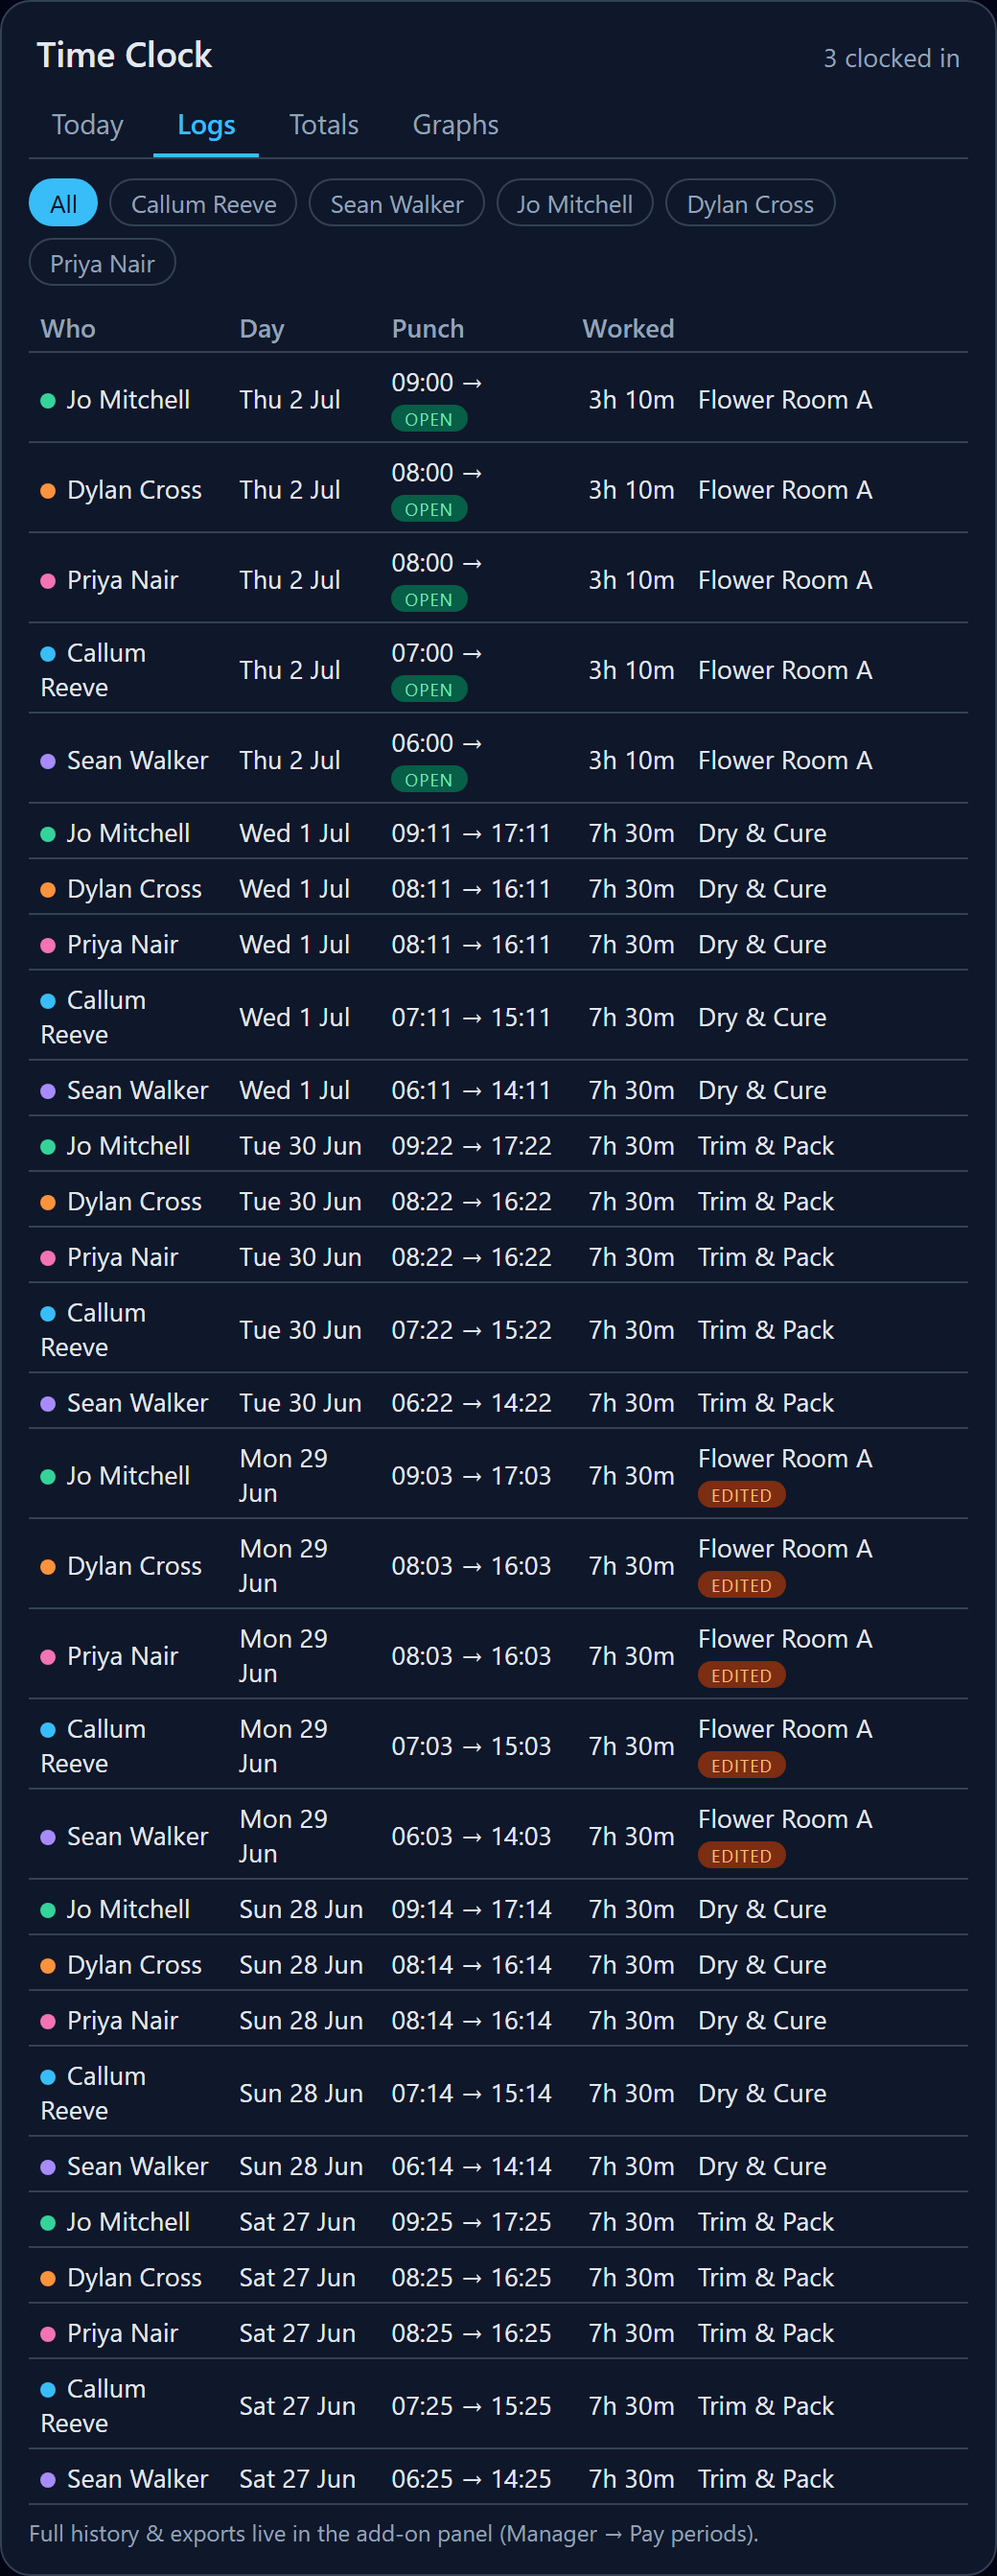
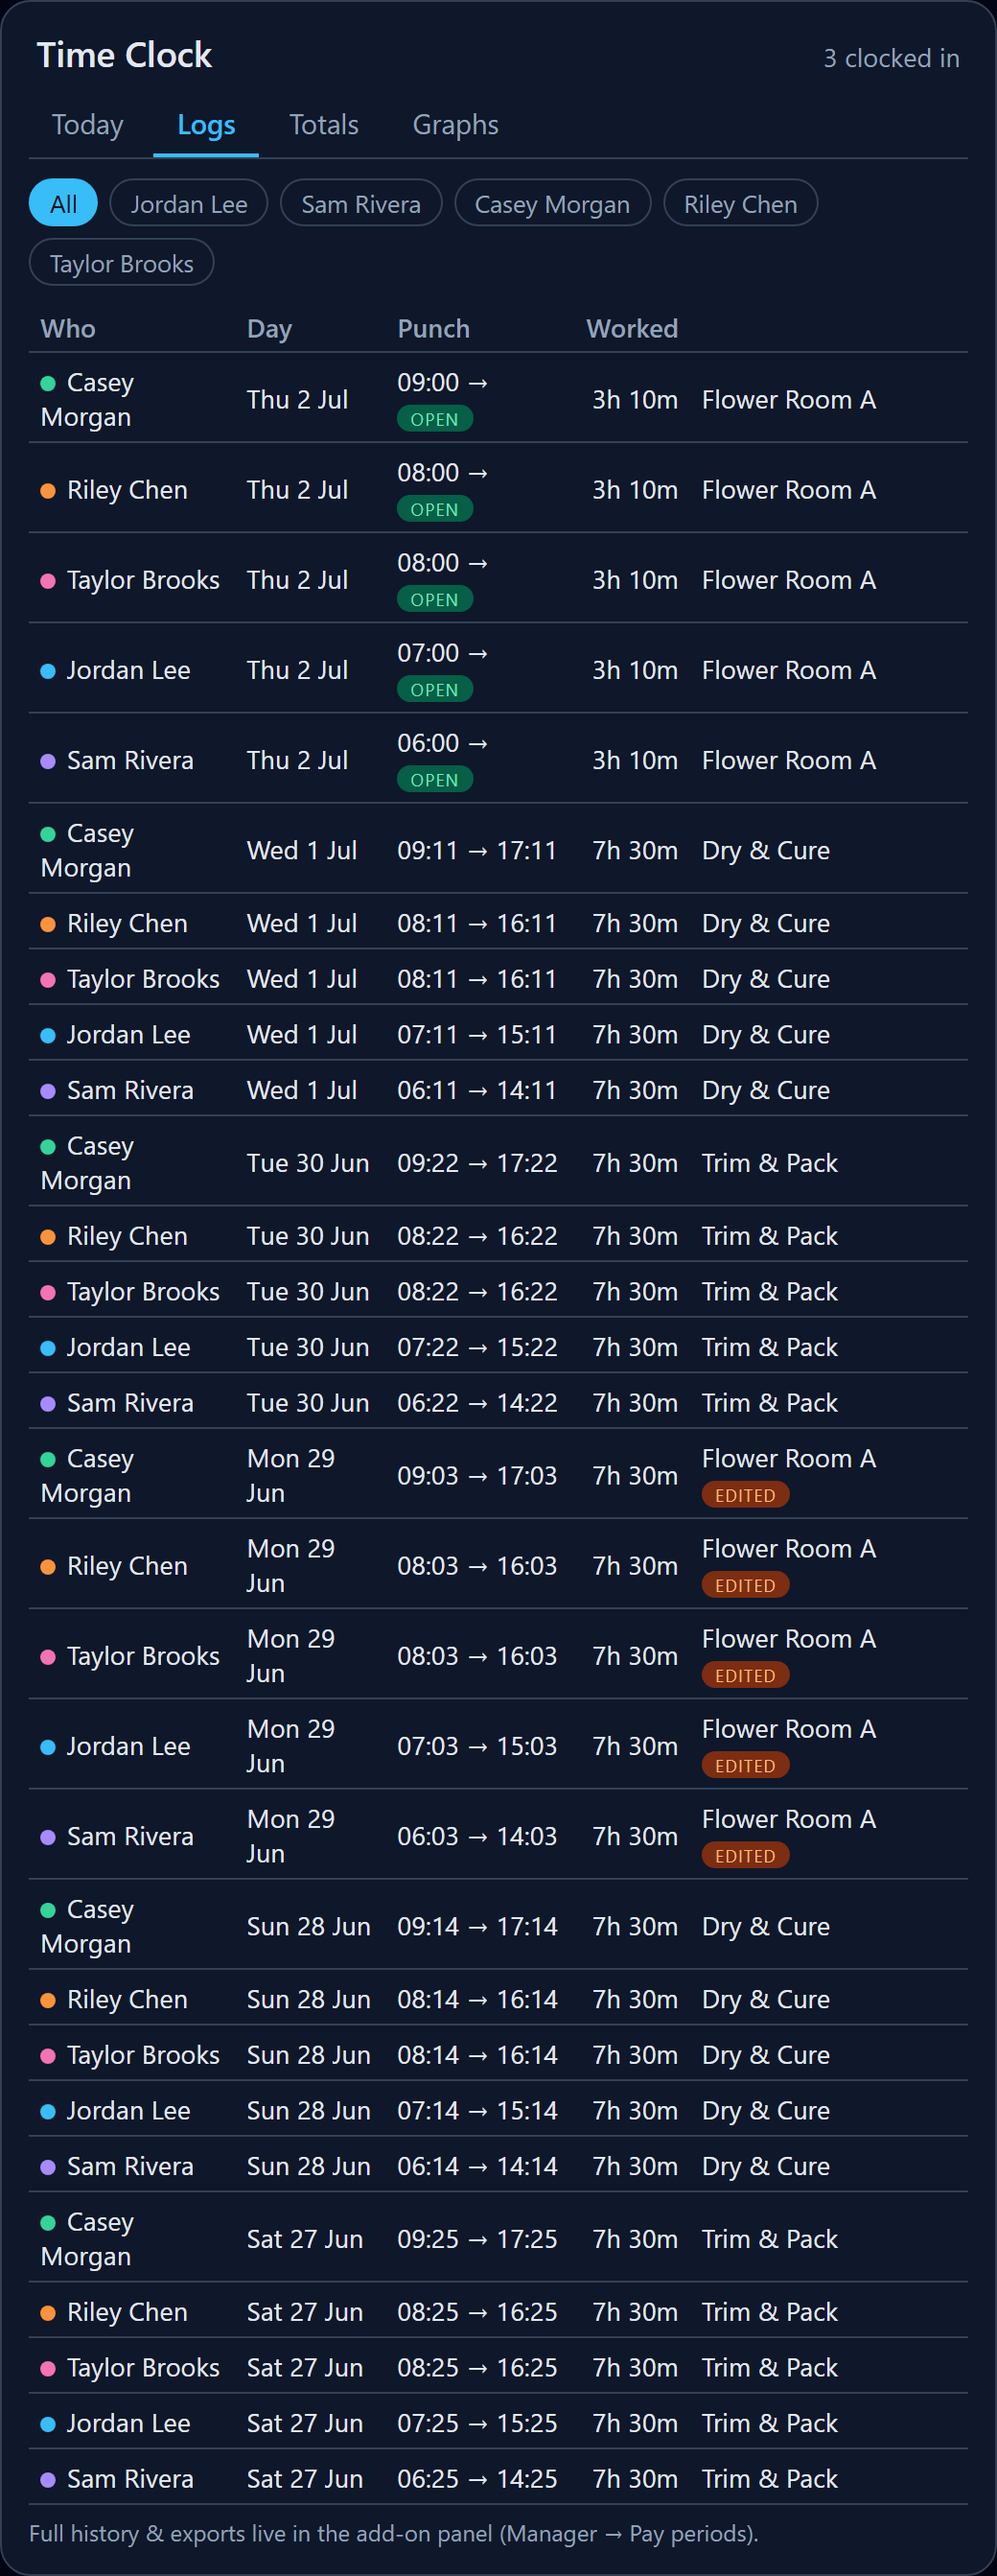
Anonymise demo data and remove personal identifiers
Screenshots regenerated with fully fictional demo data (Demo Admin, Jordan
Lee, Sam Rivera, Riley Chen, Casey Morgan, Taylor Brooks) — no real names,
usernames, or emails. Scrubbed personal name/email and a teammate's name from
LICENSE, SECURITY.md, repository.yaml, DOCS.md, CHANGELOG.md, and code
comments. Maintainer/security contact now use the project + GitHub private
reporting.

Changed region(s): [[0.0308, 0.0618, 0.8615, 0.9888], [0.0308, 0.7107, 0.2154, 0.9888], [0.2462, 0.1236, 0.3077, 0.1545]]

diff --git a/timeclock/webapp/server/integrations/notify/smtp.ts b/timeclock/webapp/server/integrations/notify/smtp.ts
@@ -2,8 +2,8 @@ import type { Notifier, NotifyMessage } from "./index";
 import { getSettings } from "@/server/domain/settings";
 
 /**
- * SMTP transport — INTERFACE WIRED, DELIVERY DEFERRED. Credentials
- * (ben@legacy.ag) are supplied later; until settings.notifications.smtp is
+ * SMTP transport — INTERFACE WIRED, DELIVERY DEFERRED. Credentials and a
+ * from-address are supplied later; until settings.notifications.smtp is
  * enabled + configured this transport reports not-configured. When creds land,
  * implement delivery here (nodemailer) — callers do not change.
  */

diff --git a/timeclock/webapp/server/integrations/ha/presence.ts b/timeclock/webapp/server/integrations/ha/presence.ts
@@ -12,7 +12,7 @@ import { slugify } from "./summary";
  * to the person's companion app. The single static handler automation in the
  * package turns the button tap back into a punch (see install.ts).
  *
- * It never auto-punches — Callum asked to keep control (supply runs etc.); this
+ * It never auto-punches — staff asked to keep control (supply runs etc.); this
  * only nudges, the human taps.
  */
 

diff --git a/timeclock/CHANGELOG.md b/timeclock/CHANGELOG.md
@@ -32,7 +32,7 @@ Wi-Fi, and to clock out when they leave.
   person, connectivity binary_sensor, or a companion-app Wi-Fi SSID sensor),
   toggle on in Admin → Settings → Presence reminders. When someone arrives an
   actionable **"Clock in?"** notification lands on their phone; when they
-  leave, **"Clock out?"**. One tap punches. Never auto-punches (Callum keeps
+  leave, **"Clock out?"**. One tap punches. Never auto-punches (staff keep
   control); arrive/depart grace periods absorb Wi-Fi flapping; a cold start
   never fires a burst of notifications.
 - Runs **inside the add-on** (polls HA, debounces, sends the notifications) —
@@ -87,7 +87,7 @@ Feedback round 2 (Ben): "it's crashing HA", "navigation and UI suck",
 
 ## 0.2.0 — HA SSO, dashboard card, Android widgets
 
-Feedback round (Callum): clock in/out from anywhere, accounts that follow the
+Feedback round: clock in/out from anywhere, accounts that follow the
 HA login, PINs that work on any computer.
 
 - **HA SSO**: an employee whose *HA username* matches the HA account opening

diff --git a/SECURITY.md b/SECURITY.md
@@ -2,11 +2,9 @@
 
 ## Reporting a vulnerability
 
-Do not open a public issue for a security problem. Report it privately:
-
-- Use GitHub's private vulnerability reporting (the Security tab, Report a
-  vulnerability), or
-- Email ben@legacy.ag with the details.
+Do not open a public issue for a security problem. Report it privately through
+GitHub's private vulnerability reporting: the repository's Security tab, then
+"Report a vulnerability".
 
 Include what you found, how to reproduce it, and the impact as you see it. You
 will get an acknowledgement, and a fix or a plan, as fast as is practical for a

diff --git a/timeclock/DOCS.md b/timeclock/DOCS.md
@@ -133,7 +133,7 @@ added as a widget too, to see current status at a glance.
 People forget to punch. When someone's phone joins the work network, the add-on
 can send them a **"Clock in?"** notification with a one-tap button; when they
 leave, a **"Clock out?"** one. It is **notify-only — it never auto-punches**.
-The human always taps (Callum kept control on purpose: supply runs, stepping
+The human always taps (keeping control is deliberate: supply runs, stepping
 out mid-shift, and working off-site shouldn't be clocked automatically). No tap,
 no punch.
 
